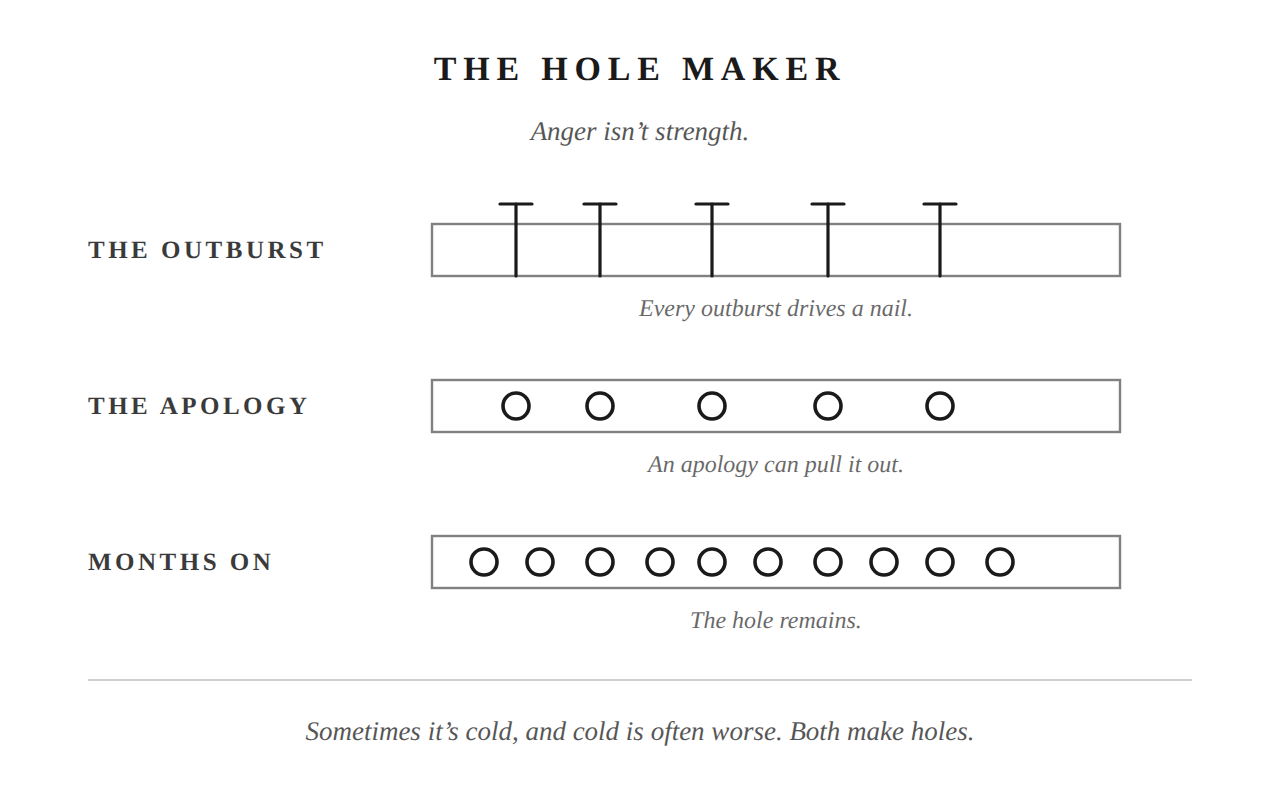
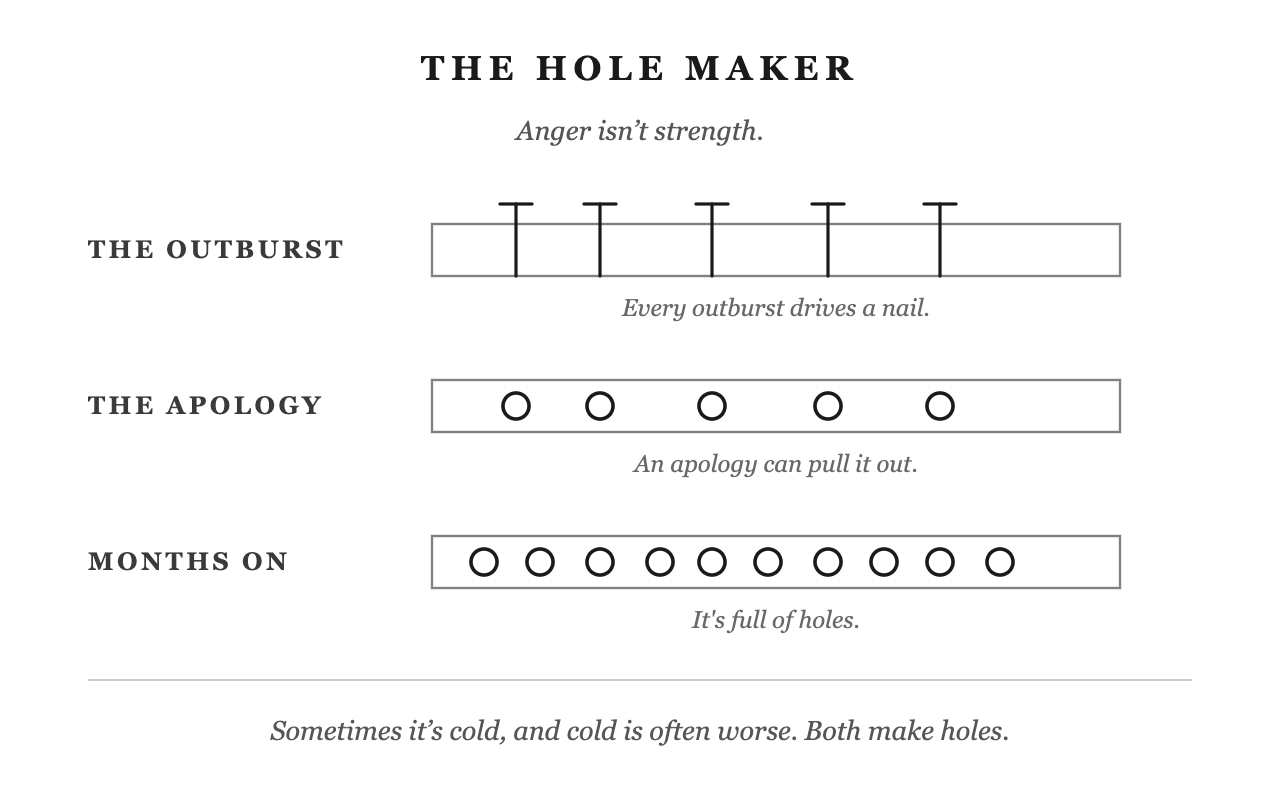
Apply approved feedback intake and Ch4 caption; decline Oak flattening

diff --git a/runs/qa/2026-09-26-inbox-045-095-approved-edits.md b/runs/qa/2026-09-26-inbox-045-095-approved-edits.md
@@ -1,0 +1,32 @@
+# Approved feedback and caption batch — 2026-09-26
+
+Authority: author replied “Approved” to the three proposed groups and declining #086. Publisher implementation in session; no desk ran cold.
+
+- #045: replaced the 32-word feedback intake paragraph with 71 words preserving original feedback and metadata, matching the referenced version, allowing paraphrases, and pausing only uncertain affected edits. Mirrored through sync_plugin_layout.py. Net +39 words per copy; +78 across canonical and derived copies. Existing paragraph replaced; no new checker.
+- #084: one caption in runs/ch04/plate.svg changed from “The hole remains.” to “It's full of holes.” Refreshed runs/ch04/pdf/plate.png and visually inspected the full rendering. All plate_check rows passed, including grounding, geometry, ink and raster freshness. Fixed the item's truncated multiline completion command; retained proposal history in Git.
+- #070/#095: exactly two prose replacements and the Mechanism label approved in chat were applied to Chapter 5 source files. The 19 replaced words are documented in the proposal. No other prose, concepts or constitution changed. Existing PDF/manuscript exports were not regenerated in this source-edit batch.
+- #086: declined; existing SVG clipping retained. Revisit only for a demonstrated delivery-format defect.
+
+okf_gate passed before prose edits. Chapter 5 voice_check reported all HARD checks passed; metaphor family remained UNCHECKED. The exact output follows. Mirror synchronization and git diff --check passed. Inbox now reports 21 open and one standing ruled citation tracker.
+
+voice_check: refined.md
+  1185 words of prose, 113 sentences
+  excluded from counts: {'cut_at_heading': "Editor's Notes", 'apparatus_words': 972}
+
+  HARD (literal counts - a FAIL here is a fact)
+    [ok  ] em-dash                  0 in prose (cap 0); 1 inside quoted/blockquoted text, not counted - each needs a verification_note confirming it is the translator's own (lines [63])
+    [ok  ] bold-as-crutch           0 inline bolded span(s) (cap 1); 5 bolded run-in header(s), NOT counted - legalized as structure by the author 2026-09-14, per 01-voice.md's run-in header exception.
+    [ok  ] long-sentence share      8/113 sentences at 25+ words = 7.1% (cap 10%)
+             67w: When you zoom out and the thing is still big, that's the signal. Four places a fight ends up: you let it go; y...
+             56w: Seneca's version of it, from a letter to his friend Lucilius: *"I prefer that my letters should be just what m...
+             50w: Marcus put a name on the practice: the view from above. *"Look down from above on the countless herds of men a...
+    [ok  ] you-density              52 direct-address words in 1185 = 43.9 per 1,000 (floor 40)
+    [skip] metaphor family          no family declared - pass --metaphor-family, or have the drafter declare the chapter's anchor image in Draft Notes. UNCHECKED, not passed.
+
+  CAND (needs a read - a clear line here is not a pass)
+    [clear ] single ending            final sentence 9 words, shares 0 words with the previous one. Close: "Everything you've built here is what makes it possible."
+    [clear ] rhetorical-device repetition no detectable shape over cap 2. Counts: {"you-don't pivot  'you don't X, you Y'": 1}. Regex cannot see every sentence-shape - a model read is still required.
+    [clear ] Stoic term gloss on first use every listed term that appears has punctuation or a gloss verb nearby
+
+  RESULT: all HARD checks passed
+  UNCHECKED (not passed): metaphor family

diff --git a/inbox/084-ch4-row-three-s-caption-the-hole-remains-is-sing.md b/inbox/084-ch4-row-three-s-caption-the-hole-remains-is-sing.md
@@ -1,16 +1,11 @@
 ---
 id: 084
-status: open
+status: resolved
 raised_by: gw-retro
 chapter: 4
 opened: 2026-09-21 12:52
-applied_by: python3 -c "
-import sys; sys.path.insert(0,'scripts'); import plate_check as pc
-s=open('runs/ch04/plate.svg',encoding='utf-8').read()
-assert 's full of holes.' in s, 'row three caption unchanged'
-r={n:l for l,n,m in pc.rows('runs/ch04/plate.svg',chapter=4,runs_root='runs')}
-assert r['grounded']=='ok' and r['captions']=='ok', r
-"
+applied_by: python3 -c 'import sys;sys.path.insert(0,'"'"'scripts'"'"');import plate_check as p;from pathlib import Path;s=Path('"'"'runs/ch04/plate.svg'"'"').read_text();assert chr(73)+chr(116)+chr(39)+'"'"'s full of holes.'"'"' in s;r={n:v for v,n,d in p.rows('"'"'runs/ch04/plate.svg'"'"',chapter=4,runs_root='"'"'runs'"'"',check_preview=False)};assert r['"'"'grounded'"'"']=='"'"'ok'"'"' and r['"'"'captions'"'"']=='"'"'ok'"'"' and r['"'"'geometry'"'"']=='"'"'ok'"'"',r'
+resolved: 2026-09-26 18:50
 ---
 
 # Ch4 row three's caption 'The hole remains.' is singular and about persistence under a picture of ten holes claiming accumulation. The chapter's own sentence 'It's full of holes.' (refined.md:73) fixes it, passes grounded, and stays at the caption cap - unlike the Panel's 'The holes remain. And they keep coming.', which fails grounded. Change row three's caption to the chapter's sentence?
@@ -26,3 +21,13 @@ CURRENT 'The hole remains.' -> ALL OK / PROPOSED "It's full of holes." -> ALL OK
 ```
 
 **What unblocks this:** Whether row three's caption matches what row three draws
+
+**Resolution (2026-09-26 18:50):** Author approved the exact caption: It is now “It’s full of holes.” in runs/ch04/plate.svg. Refreshed the PNG preview, visually inspected it, and passed every plate_check row including ink and raster-current. No other plate wording changed.
+
+**Not applied yet.** This ruling lands outside this repo. It closes when `python3 -c "` exits 0.
+
+**Resolution (2026-09-26 18:51):** Replaced the truncated historical multiline proof with a runnable caption, grounding, captions and geometry check. Full rendered checks and visual inspection also passed for this revision.
+
+**Not applied yet.** This ruling lands outside this repo. It closes when `python3 -c 'import sys;sys.path.insert(0,'"'"'scripts'"'"');import plate_check as p;from pathlib import Path;s=Path('"'"'runs/ch04/plate.svg'"'"').read_text();assert chr(73)+chr(116)+chr(39)+'"'"'s full of holes.'"'"' in s;r={n:v for v,n,d in p.rows('"'"'runs/ch04/plate.svg'"'"',chapter=4,runs_root='"'"'runs'"'"',check_preview=False)};assert r['"'"'grounded'"'"']=='"'"'ok'"'"' and r['"'"'captions'"'"']=='"'"'ok'"'"' and r['"'"'geometry'"'"']=='"'"'ok'"'"',r'` exits 0.
+
+**Applied, confirmed 2026-09-26 18:51:** `python3 -c 'import sys;sys.path.insert(0,'"'"'scripts'"'"');import plate_check as p;from pathlib import Path;s=Path('"'"'runs/ch04/plate.svg'"'"').read_text();assert chr(73)+chr(116)+chr(39)+'"'"'s full of holes.'"'"' in s;r={n:v for v,n,d in p.rows('"'"'runs/ch04/plate.svg'"'"',chapter=4,runs_root='"'"'runs'"'"',check_preview=False)};assert r['"'"'grounded'"'"']=='"'"'ok'"'"' and r['"'"'captions'"'"']=='"'"'ok'"'"' and r['"'"'geometry'"'"']=='"'"'ok'"'"',r'` now exits 0.

diff --git a/inbox/045-should-gw-signal-step-0-become-a-stop-condition-.md b/inbox/045-should-gw-signal-step-0-become-a-stop-condition-.md
@@ -1,10 +1,11 @@
 ---
 id: 045
-status: open
+status: resolved
 raised_by: gw-retro
 chapter: 0
 opened: 2026-09-19 15:00
-applied_by: grep -q 'runs/signals/' .claude/skills/gw-signal/SKILL.md && grep -q 'dispatch no' .claude/skills/gw-signal/SKILL.md && grep -q 'runs/signals/' skills/gw-signal/SKILL.md && python3 scripts/sync_plugin_layout.py --check
+applied_by: python3 scripts/sync_plugin_layout.py --check
+resolved: 2026-09-26 18:50
 ---
 
 # Should /gw-signal Step 0 become a stop condition - save the paste verbatim to runs/signals/, then grep its landmarks against the published chapter and refuse to dispatch a desk if they are not there?
@@ -20,3 +21,9 @@ wc -w on the drafted replacement -> 104; wc -w on the existing Step 0 -> 35; cor
 ```
 
 **What unblocks this:** Whether gw-signal/SKILL.md Step 0 is replaced with gw-retro's drafted 104-word version (net +69 corpus words, replacing the existing 35)
+
+**Resolution (2026-09-26 18:50):** Author approved the scoped intake replacement. Step 0 now preserves original feedback and source/version metadata, checks quotations and described passages without requiring literal paraphrase matches, pauses only uncertain affected edits, and routes matched feedback normally. Reviewed instruction text directly; mirror check confirms synchronization, not semantic behavior. No automated matcher added.
+
+**Not applied yet.** This ruling lands outside this repo. It closes when `python3 scripts/sync_plugin_layout.py --check` exits 0.
+
+**Applied, confirmed 2026-09-26 18:50:** `python3 scripts/sync_plugin_layout.py --check` now exits 0.

diff --git a/.claude/skills/gw-signal/SKILL.md b/.claude/skills/gw-signal/SKILL.md
@@ -11,10 +11,13 @@ which desk it belongs to.** Routing is the Publisher's job.
 
 ## Step 0
 
-`python3 scripts/resolve_book.py`. Read the chapter as it was published
-(`{bookRoot}/chapters/chNN/refined.md`, and any Substack or social piece under
-`{bookRoot}/marketing/` or `runs/marketing/chNN/`) so every response can be
-matched to the sentence it is about.
+Run `python3 scripts/resolve_book.py`. Save the original feedback verbatim to
+`runs/signals/`, recording its source, date from the clock, chapter, and known
+version separately. Read the referenced chapter or published piece and match
+specific quotations and described passages; paraphrases need not match literally.
+If the version or passage is uncertain, preserve the feedback and pause only
+its affected edits while the Publisher establishes the source with the author.
+Route clearly matched feedback normally.
 
 ## Step 1 — log it before judging it
 

diff --git a/skills/gw-signal/SKILL.md b/skills/gw-signal/SKILL.md
@@ -14,10 +14,13 @@ which desk it belongs to.** Routing is the Publisher's job.
 
 ## Step 0
 
-`python3 scripts/resolve_book.py`. Read the chapter as it was published
-(`{bookRoot}/chapters/chNN/refined.md`, and any Substack or social piece under
-`{bookRoot}/marketing/` or `runs/marketing/chNN/`) so every response can be
-matched to the sentence it is about.
+Run `python3 scripts/resolve_book.py`. Save the original feedback verbatim to
+`runs/signals/`, recording its source, date from the clock, chapter, and known
+version separately. Read the referenced chapter or published piece and match
+specific quotations and described passages; paraphrases need not match literally.
+If the version or passage is uncertain, preserve the feedback and pause only
+its affected edits while the Publisher establishes the source with the author.
+Route clearly matched feedback normally.
 
 ## Step 1 — log it before judging it
 

diff --git a/inbox/086-runs-parts-plate-2-sturdy-oak-svg-is-the-only-pl.md b/inbox/086-runs-parts-plate-2-sturdy-oak-svg-is-the-only-pl.md
@@ -1,6 +1,8 @@
 ---
 id: 086
-status: open
+status: resolved
+disposition: declined
+resolved: 2026-09-26 18:50
 raised_by: gw-designer
 chapter: 0
 opened: 2026-09-21 13:00
@@ -20,3 +22,5 @@ grep -c 'clipPath|clip-path' runs/parts/plate-2-sturdy-oak.svg -> 2. Files among
 ```
 
 **What unblocks this:** Whether the Oak plate can be landed as-is or needs its clip resolved into geometry first
+
+**Resolution (2026-09-26 18:50):** Author approved declining #086. Keep the existing clipping implementation; revisit only if an actual delivery format demonstrates a rendering problem. Historical proof retained; no flattening performed or claimed.
